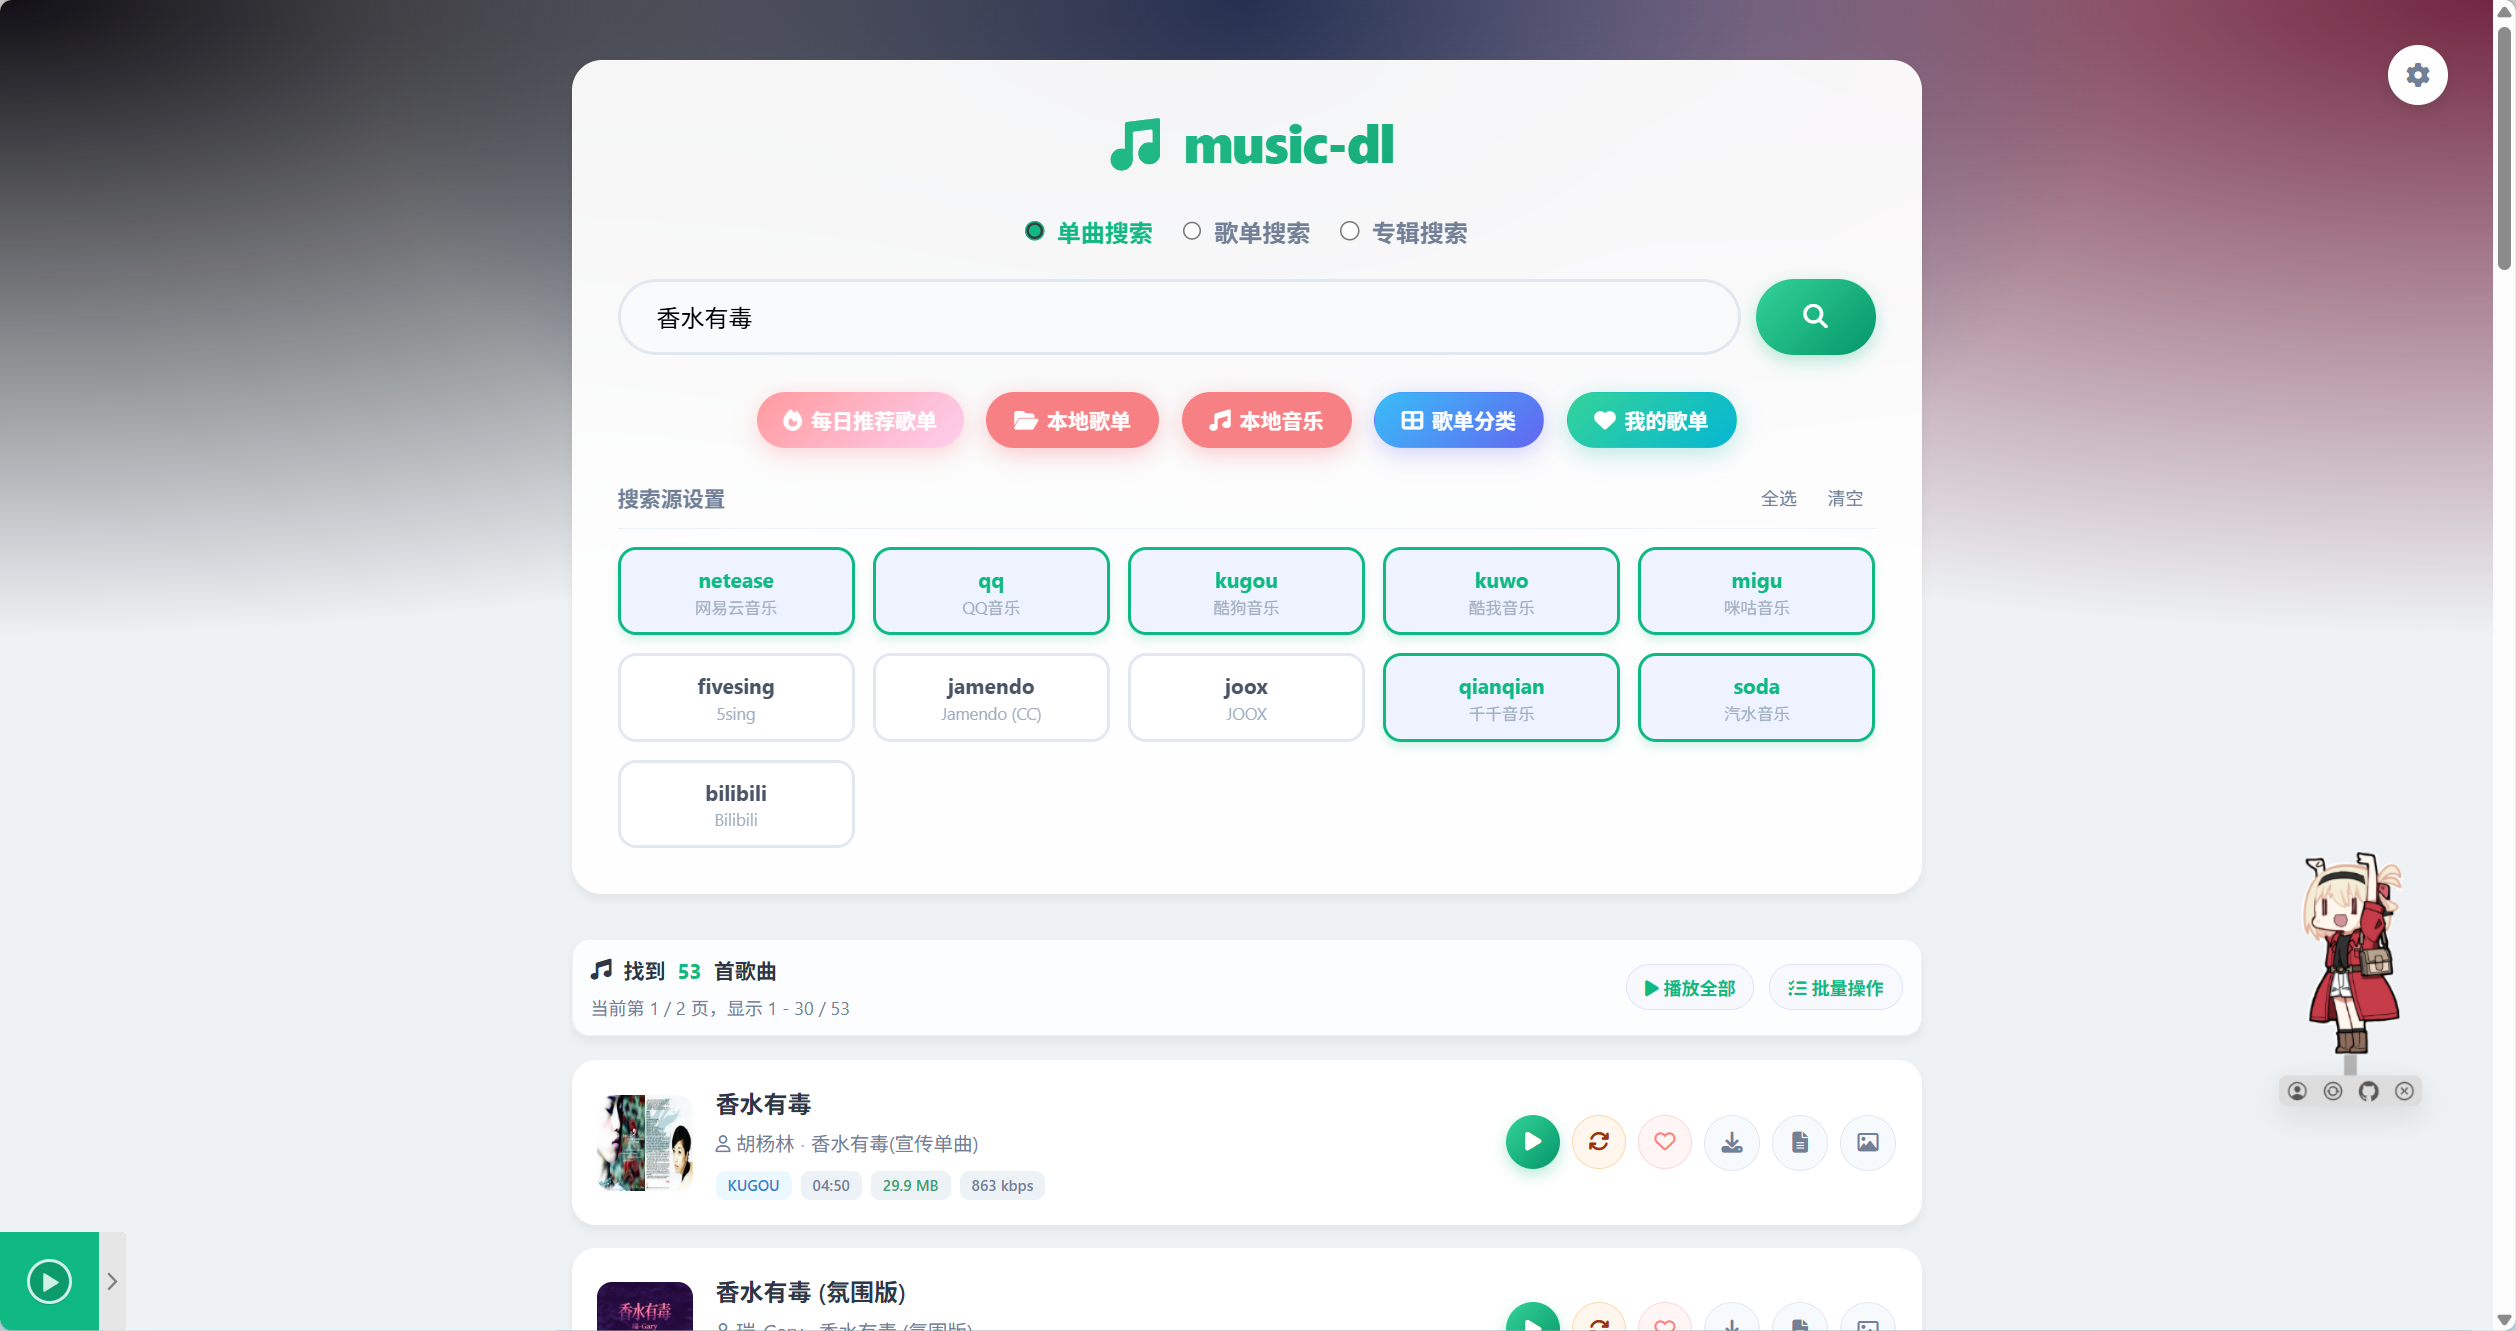
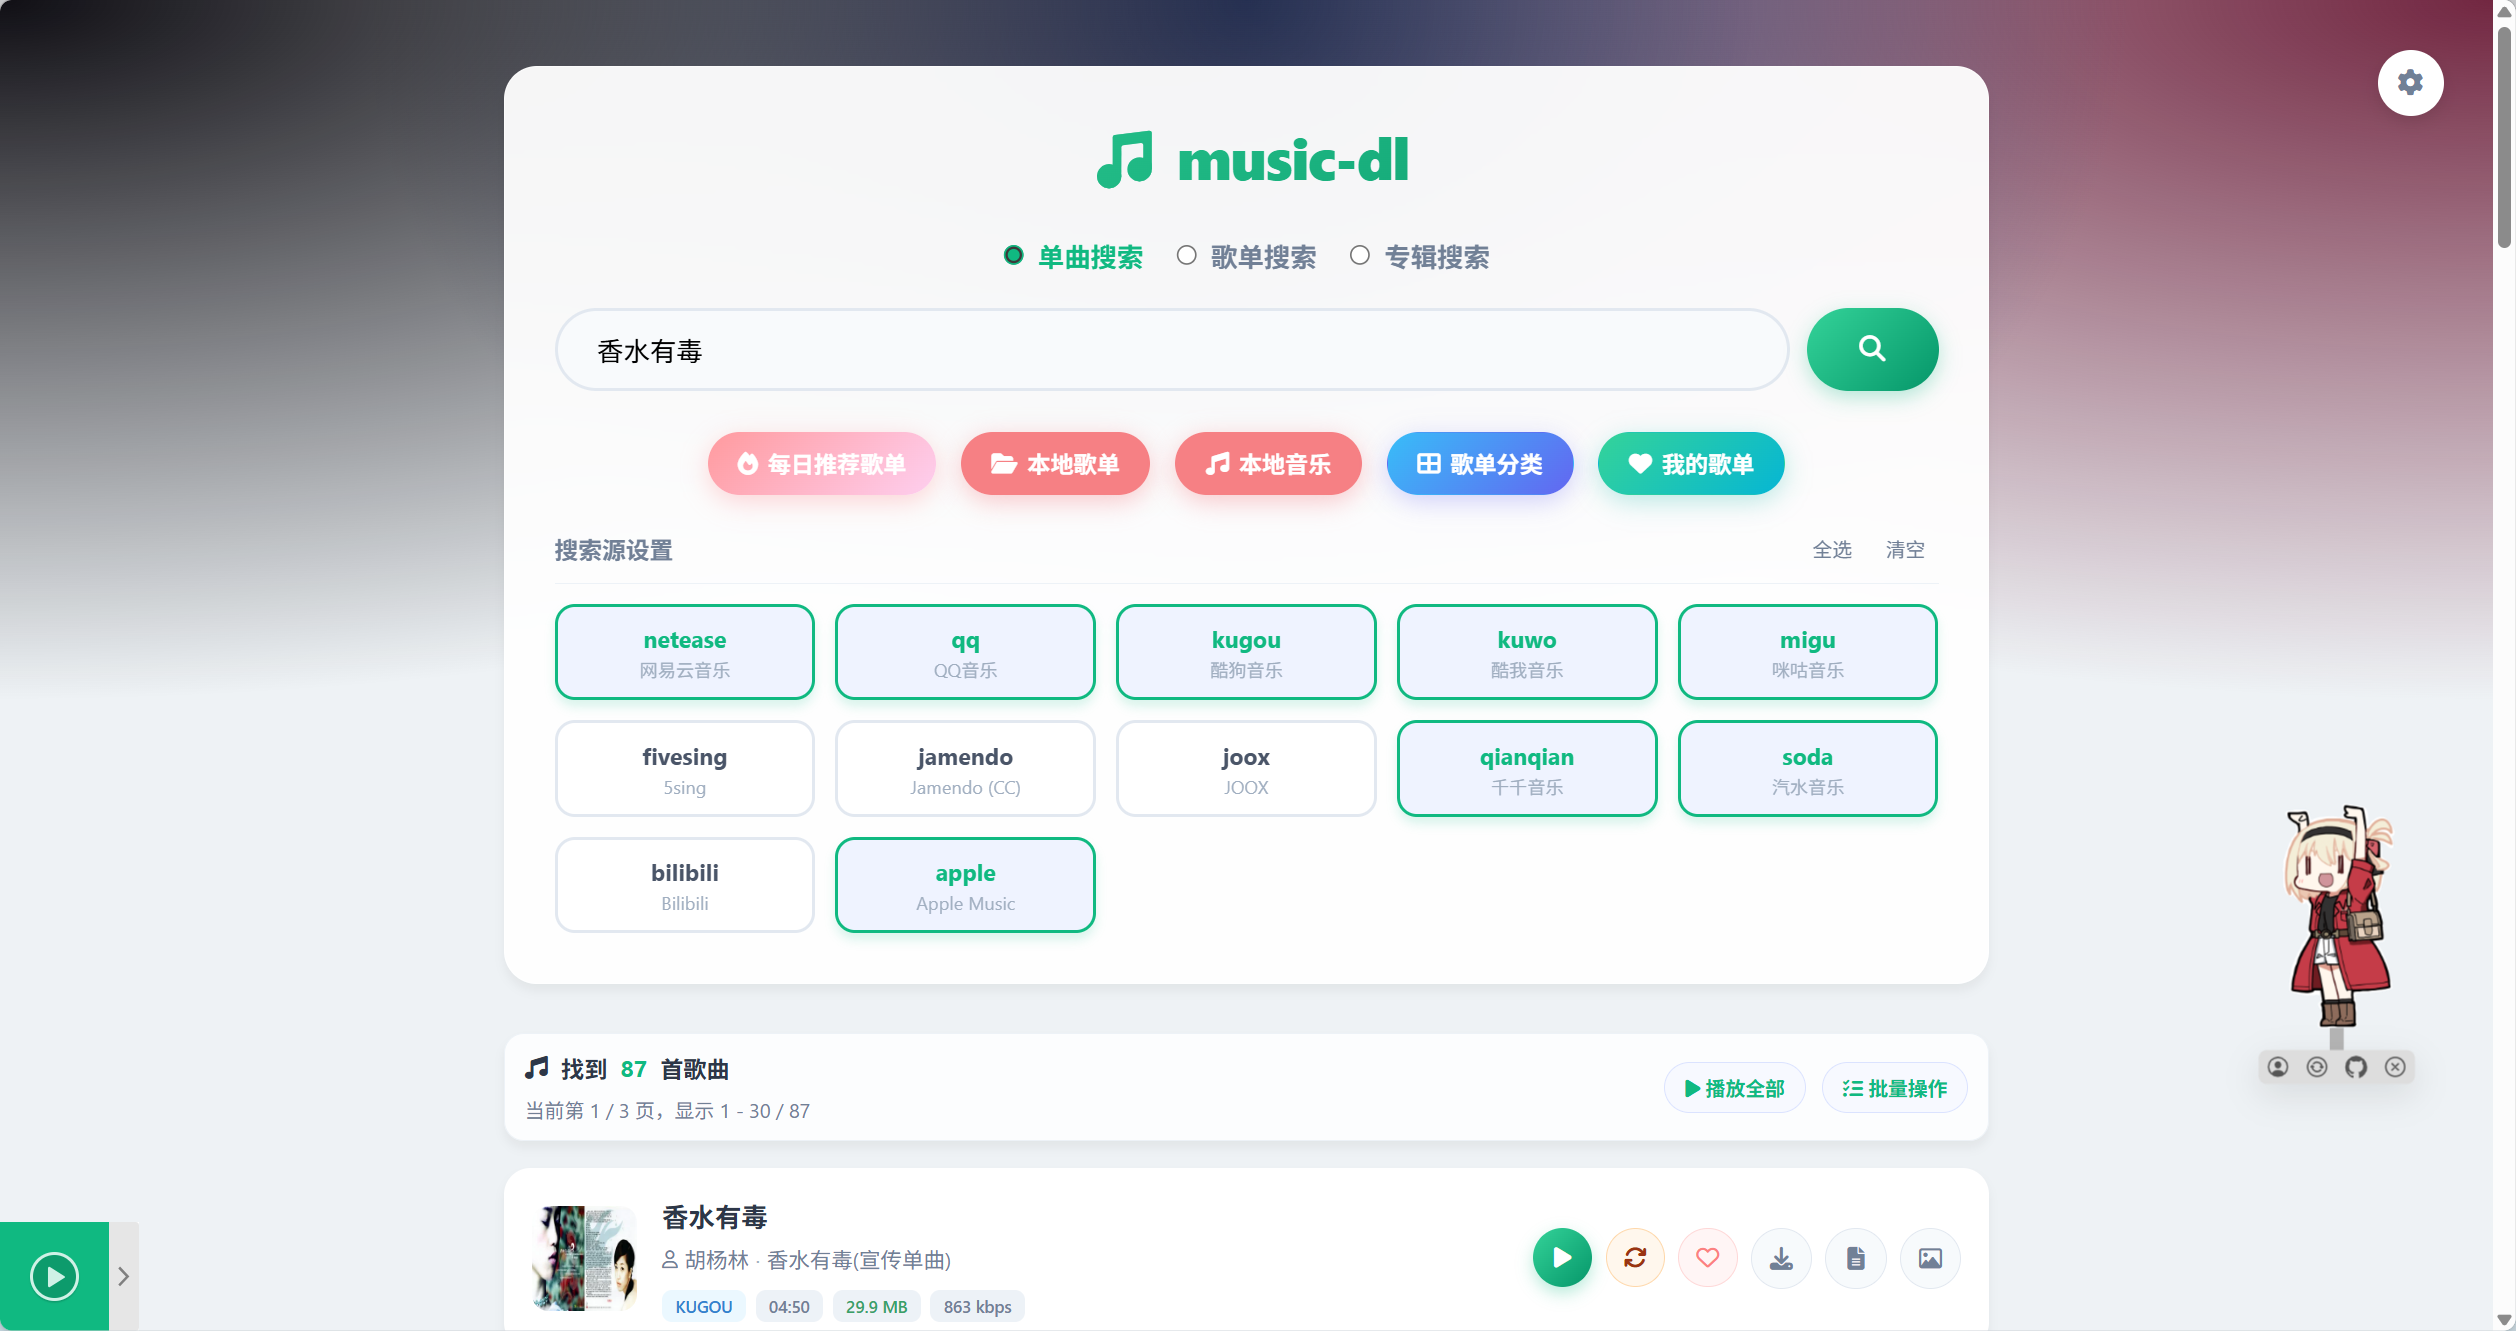
功能：添加对 Apple Music 的支持，更新相关功能和文档

diff --git a/internal/web/templates/partials/modals.html b/internal/web/templates/partials/modals.html
@@ -80,8 +80,8 @@
             </div>
             <div class="cookie-item">
                 <label for="setting-cli-page-size">CLI 每页条数</label>
-                <input type="number" id="setting-cli-page-size" min="1" max="200" step="1" placeholder="默认 50">
-                <p class="setting-hint" style="margin-left: 0;">用于 TUI 分页显示，默认 50。</p>
+                <input type="number" id="setting-cli-page-size" min="1" max="200" step="1" placeholder="默认 20">
+                <p class="setting-hint" style="margin-left: 0;">用于 TUI 分页显示，默认 20。</p>
             </div>
             <div class="cookie-item setting-item">
                 <label class="setting-toggle" for="setting-vg-change-cover">

diff --git a/core/service.go b/core/service.go
@@ -330,6 +330,8 @@ func GetPlaylistCategoriesFunc(source string) PlaylistCategoriesFunc {
 		return joox.New(c).GetPlaylistCategories
 	case "qianqian":
 		return qianqian.New(c).GetPlaylistCategories
+	case "apple":
+		return apple.New(c).GetPlaylistCategories
 	default:
 		return nil
 	}
@@ -352,6 +354,8 @@ func GetCategoryPlaylistsFunc(source string) CategoryPlaylistsFunc {
 		return joox.New(c).GetCategoryPlaylists
 	case "qianqian":
 		return qianqian.New(c).GetCategoryPlaylists
+	case "apple":
+		return apple.New(c).GetCategoryPlaylists
 	default:
 		return nil
 	}
@@ -1008,7 +1012,7 @@ func GetAlbumSourceNames() []string {
 }
 
 func GetPlaylistCategorySourceNames() []string {
-	return []string{"netease", "qq", "kugou", "kuwo", "migu", "qianqian", "joox"}
+	return []string{"netease", "qq", "kugou", "kuwo", "migu", "qianqian", "joox", "apple"}
 }
 
 func GetDefaultSourceNames() []string {

diff --git a/README.md b/README.md
@@ -73,7 +73,7 @@ Go Music DL 是一个音乐搜索与下载工具，支持 **Web 界面**、**TUI
 
 Web 首页的歌单入口旁提供 **歌单分类** 和 **我的歌单**：
 
-* **歌单分类**: 支持网易云、QQ、酷狗、酷我、咪咕、千千、JOOX。进入后可切换平台标签，选择分类并查看该分类下的歌单。
+* **歌单分类**: 支持网易云、QQ、酷狗、酷我、咪咕、千千、JOOX、Apple Music。进入后可切换平台标签，选择分类并查看该分类下的歌单。
 * **我的歌单**: 支持网易云、QQ、酷狗、汽水。需要先在 Web 右上角“设置”中配置对应平台 Cookie；QQ 支持“我喜欢的歌曲”和收藏歌单，汽水支持“喜欢的音乐”和导入歌单，均可在站内解析歌曲列表。
 * **详情与导入**: 分类歌单和我的歌单都可进入详情页，歌曲列表支持播放、下载、批量操作，也可导入到本地自制歌单。
 
@@ -417,7 +417,7 @@ TUI 在输入界面按 `w` 直接拉取推荐歌单，然后回车进详情。
 | Jamendo    | `jamendo`  | ✅   | ✅   | ✅   | ✅       | ⚠     | ❌       | ❌       | ❌       | ❌          | ✅       | ✅           | ✅       | ✅       | ✅           | 歌单搜索可能返回空，公开歌单链接可解析 |
 | JOOX       | `joox`     | ✅   | ✅   | ✅   | ✅       | ✅       | ❌       | ✅       | ❌       | ❌          | ✅       | ✅           | ✅       | ✅       | ✅           | 歌单支持 OpenJOOX 接口和网页数据兜底   |
 | Bilibili   | `bilibili` | ✅   | ✅   | ✅   | ✅       | ✅       | ❌       | ❌       | ❌       | ✅          | ✅       | ✅           | ❌       | ❌       | ❌           | 支持 FLAC 无损                         |
-| Apple Music | `apple`   | ✅   | ⚠  | ✅   | ✅       | ✅       | ❌       | ❌       | ❌       | ❌          | ✅       | ✅           | ✅       | ✅       | ✅           | 下载仅 preview，完整需 gamdl 解密      |
+| Apple Music | `apple`   | ✅   | ⚠  | ✅   | ✅       | ✅       | ❌       | ✅       | ❌       | ❌          | ✅       | ✅           | ✅       | ✅       | ✅           | 下载仅 preview，完整需 gamdl 解密      |
 
 > `⚠` 表示方法已接入，但平台搜索接口结果不稳定；优先使用已知 ID 或链接解析。
 
